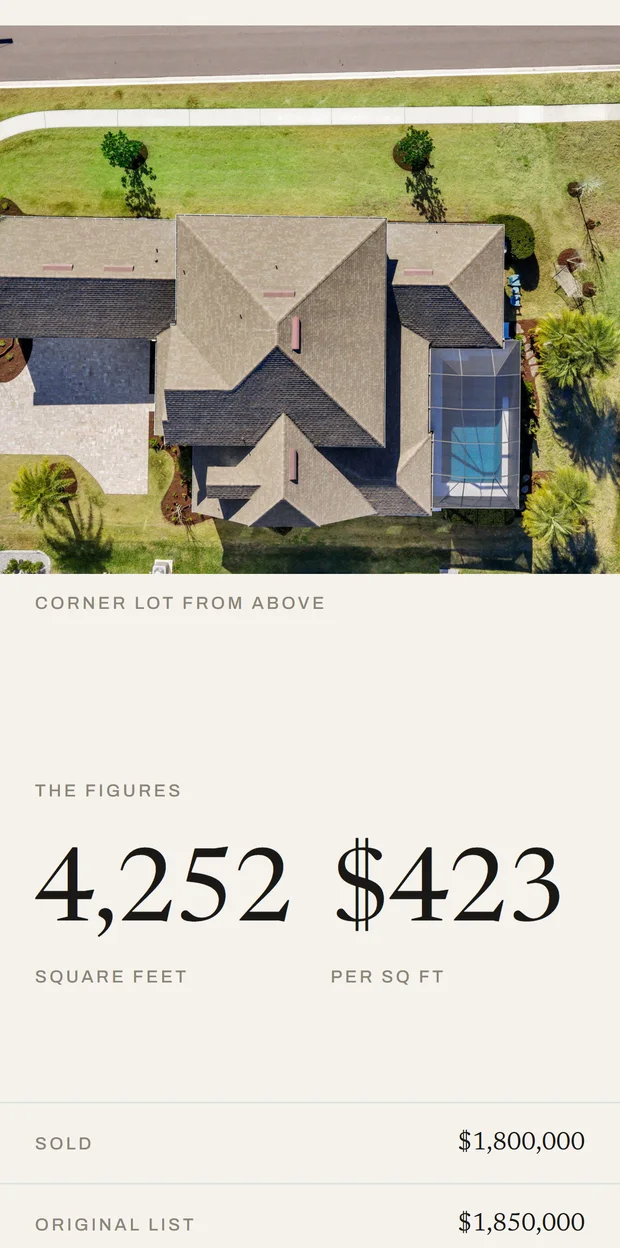
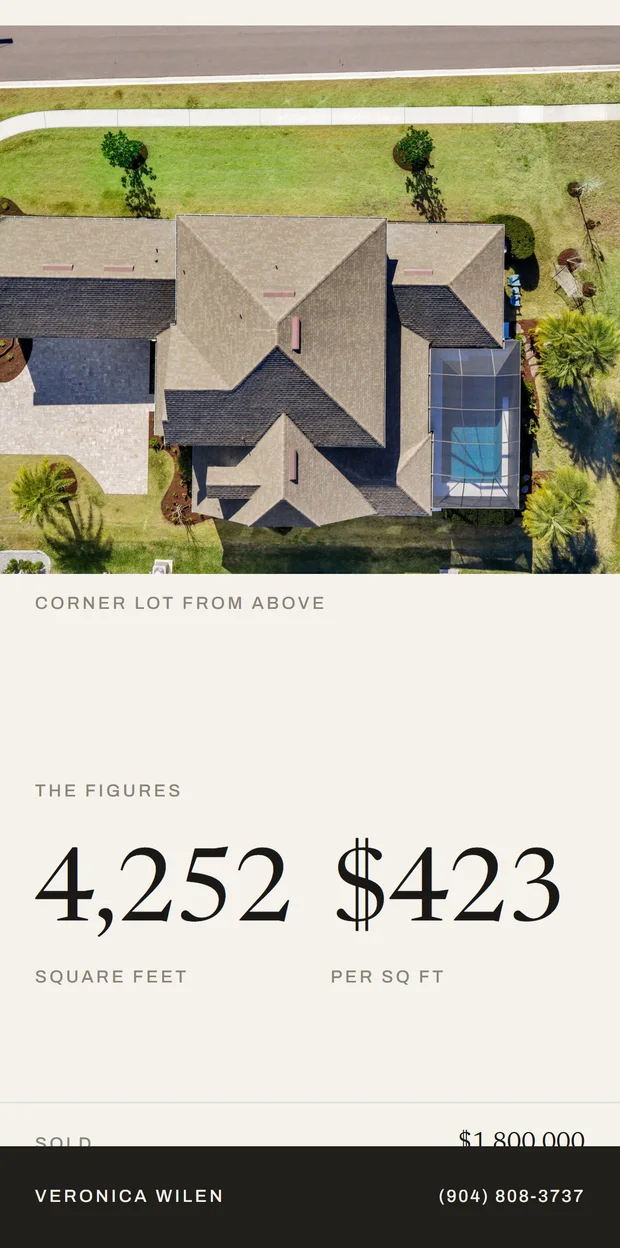
Recapture the hero frames with the larger title and the call band back
Two changes to the guide picked up in one pass.

The title is larger, so both frames were recaptured from the live site. Section
offsets were re-measured first rather than reused: the document is still 10,036px
with the header at 875 and the figures at 5947, so the change was font size only
and the capture points held.

The sticky call band is no longer hidden during capture, so it sits across the
bottom of both frames the way it does on a real phone.

That does cover content the alt text used to describe. The opening screen's bed,
bath and square-foot row and the figures screen's sold and original list rows now
sit behind the band, so both alts were rewritten to match what is actually
visible rather than what used to be.

The wide panel under the Open house tab is built from the same two captures, so
it picked up both changes.

Changed region(s): [[0.0, 0.9062, 1.0, 1.0]]

diff --git a/index.html b/index.html
@@ -62,8 +62,8 @@
         <div class="phone-glow" aria-hidden="true"></div>
         <div class="phone">
           <div class="phone-screen">
-            <div class="frame"><img src="images/guide-openhouse-home.webp" width="620" height="1248" alt="The guide’s opening screen on a phone: 268 Harper’s Mill Drive over a photo of the home, then the sold price and the bed, bath and square-foot counts." loading="eager" decoding="async"></div>
-            <div class="frame"><img src="images/guide-openhouse-photo.webp" width="620" height="1248" alt="The guide’s gallery running into its figures on a phone: an aerial shot of the corner lot, captioned, then 4,252 square feet at $423 per square foot, the sold price and the original list price." loading="lazy" decoding="async"></div>
+            <div class="frame"><img src="images/guide-openhouse-home.webp" width="620" height="1248" alt="The guide’s opening screen on a phone: 268 Harper’s Mill Drive over a photo of the home, the sold price below it, and the agent’s call band pinned across the bottom." loading="eager" decoding="async"></div>
+            <div class="frame"><img src="images/guide-openhouse-photo.webp" width="620" height="1248" alt="The guide’s gallery running into its figures on a phone: an aerial shot of the corner lot, captioned, then 4,252 square feet at $423 per square foot, with the agent’s call band pinned across the bottom." loading="lazy" decoding="async"></div>
           </div>
           </div>
         </div>

diff --git a/script.js b/script.js
@@ -86,7 +86,7 @@ document.addEventListener('DOMContentLoaded',function(){
   // examples: tab switcher
   var EXAMPLES=[
     {visual:'guide-openhouse-wide.webp',
-     alt:'The 268 Harper’s Mill Drive guide on two phones: the address over a photo of the home, and an aerial shot above the square footage and price per square foot.',
+     alt:'The 268 Harper’s Mill Drive guide on two phones: the address over a photo of the home, and an aerial shot above the square footage and price per square foot, each with the agent’s call band along the bottom.',
      inGuide:['The line','Gallery','The figures','The house','The area'],
      result:'The paper flyer buyers leave in the car.'},
     {visual:'guide-aftercare-wide.webp',
